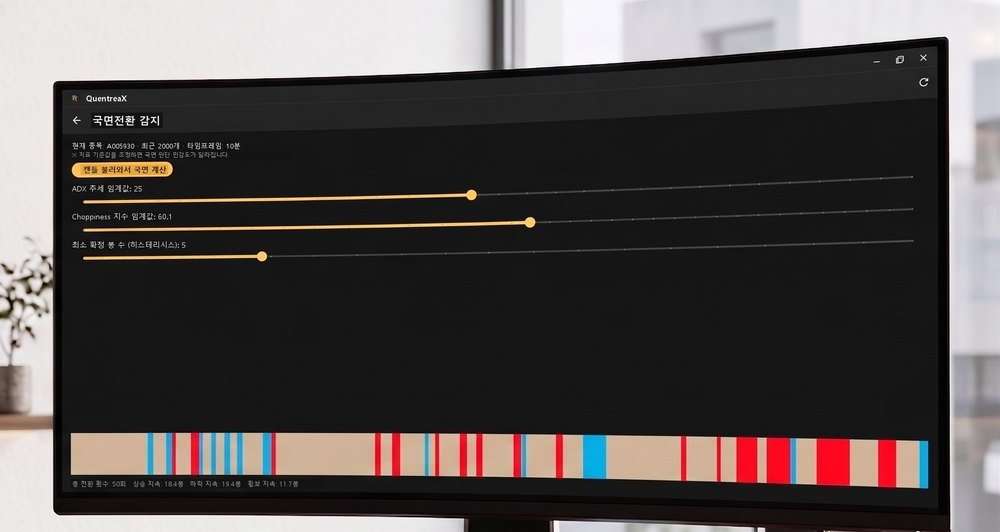
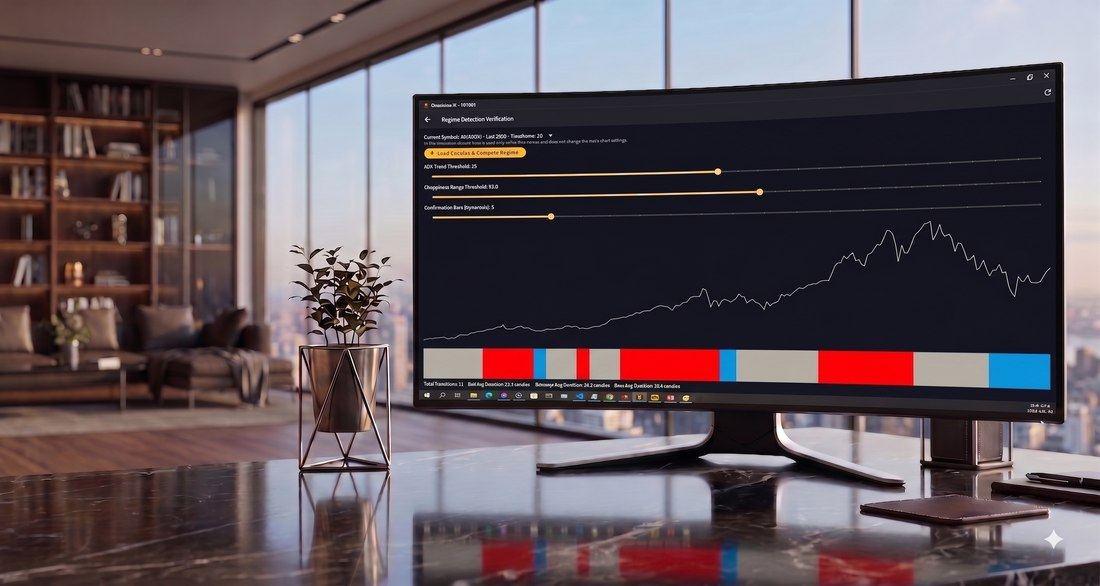
기능 페이지를 지그재그(이미지-텍스트 교차) 레이아웃으로 재구성
8개 기능 카드를 2열 그리드에서 좌우 교차 배치 행으로 변경하고,
사용자가 준비한 영어 UI 목업 이미지로 전체 교체(한글 깨짐 문제 해소).

diff --git a/features.html b/features.html
@@ -54,51 +54,74 @@
 
 <section class="section">
   <div class="container">
-    <div class="grid cols-2">
-      <div class="card num-card">
-        <img class="card-shot" src="assets/features/strategy-builder.jpg" alt="전략빌더 백테스팅 결과 화면" loading="lazy" />
+    <div class="feature-row num-card">
+      <div class="feature-media"><img src="assets/features/strategy-builder.jpg" alt="전략빌더 노드 편집 화면" loading="lazy" /></div>
+      <div class="feature-body">
         <span class="badge">전략빌더</span>
         <h3>노드 기반 전략빌더</h3>
         <p class="quote">"내가 생각한 매매전략을 직접 만들고 싶다면"</p>
         <p>퀀트라엑스의 전략빌더에 있는 AI에게 자연어로 요청하면 바로 노드로 연결하여 매매전략을 설계합니다. 조건 설정부터 진입·청산·손절·익절까지, 내가 생각한 로직을 직접 전략으로 만들 수 있습니다.</p>
-        <p class="card-note">※ 화면 속 수익률은 모의검증(백테스트) 결과이며, 실계좌 실적이 아닙니다.</p>
       </div>
-      <div class="card num-card">
-        <img class="card-shot" src="assets/features/trade-line.jpg" alt="차트 매매선 화면" loading="lazy" />
+    </div>
+
+    <div class="feature-row reverse num-card">
+      <div class="feature-media"><img src="assets/features/trade-line.jpg" alt="차트 매매선 화면" loading="lazy" /></div>
+      <div class="feature-body">
         <span class="badge">매매선</span>
         <h3>차트 매매선</h3>
         <p class="quote">"차트를 보면서 직관적으로 매매하고 싶다면"</p>
         <p>차트 위에 진입, 익절, 손절 가격을 직접 그어보세요. 복잡한 설정 없이 내가 그린 매매선을 기준으로 자동 실행할 수 있습니다.</p>
       </div>
-      <div class="card">
-        <img class="card-shot" src="assets/features/prediction-candle.jpg" alt="AI 예측봉 차트 화면" loading="lazy" />
+    </div>
+
+    <div class="feature-row">
+      <div class="feature-media"><img src="assets/features/prediction-candle.jpg" alt="AI 예측봉 차트 화면" loading="lazy" /></div>
+      <div class="feature-body">
         <span class="badge badge-accent">예측봉</span>
         <h3>AI 예측봉</h3>
         <p>다음 캔들의 흐름을 AI가 예측해 차트에 표시합니다. 5개짜리 통계 기반 예측은 5회 반복 후 다수결로 최종안을 뽑아 신뢰도를 높였고, 1개짜리 예측은 진행 중인 봉의 마감가와 다음 봉의 흐름을 함께 예측해 시장의 가능성을 분석합니다.</p>
       </div>
-      <div class="card">
+    </div>
+
+    <div class="feature-row reverse">
+      <div class="feature-media"><img src="assets/features/triple-verify.jpg" alt="AI 3중 검증 예측봉 매매 화면" loading="lazy" /></div>
+      <div class="feature-body">
         <span class="badge badge-accent">3중 검증</span>
         <h3>AI 3중 검증 예측봉 매매</h3>
         <p>재미나이·클로드·GPT 세 개의 AI가 각각 다음 캔들을 독립적으로 예측하고, 방향이 서로 일치할 때만 매매에 반영합니다. 하나의 AI에만 의존하지 않고 서로 다른 AI가 서로를 검증하는 구조입니다.</p>
       </div>
-      <div class="card">
-        <img class="card-shot" src="assets/features/ai-bot.jpg" alt="AI봇 실행 상태 화면" loading="lazy" />
+    </div>
+
+    <div class="feature-row">
+      <div class="feature-media"><img src="assets/features/ai-bot.jpg" alt="AI봇 편집 화면" loading="lazy" /></div>
+      <div class="feature-body">
         <span class="badge">AI봇</span>
         <h3>AI봇 자동매매</h3>
         <p>재미나이·클로드·GPT 중 원하는 엔진을 선택해 호가창과 시세를 분석시키고, 실시간으로 매매 판단을 실행합니다. 신호를 그대로 따를지, 반전시킬지, 시장 국면에 따라 자동으로 바꿀지도 설정할 수 있습니다.</p>
       </div>
-      <div class="card">
-        <img class="card-shot" src="assets/features/phase-detect.jpg" alt="국면전환 감지 설정 화면" loading="lazy" />
+    </div>
+
+    <div class="feature-row reverse">
+      <div class="feature-media"><img src="assets/features/phase-detect.jpg" alt="국면전환 감지 설정 화면" loading="lazy" /></div>
+      <div class="feature-body">
         <span class="badge">국면 판단</span>
         <h3>국면전환 자동매매</h3>
         <p>시장이 상승·하락·횡보 중 어느 국면인지 지표(추세강도·변동성)로 스스로 판단해, 국면에 맞는 전략으로 자동 전환합니다. 사람이 장을 보고 있지 않아도 국면이 바뀌면 매매 방식도 따라 바뀝니다.</p>
       </div>
-      <div class="card">
+    </div>
+
+    <div class="feature-row">
+      <div class="feature-media"><img src="assets/features/unattended.jpg" alt="무인 다중계좌 운영 화면" loading="lazy" /></div>
+      <div class="feature-body">
         <span class="badge">무인 운영</span>
         <h3>무인 다중계좌 운영</h3>
         <p>계좌 화면을 열어두지 않아도 여러 계좌의 전략·매매선·AI봇이 백그라운드에서 계속 동작합니다. 계좌별로 실행 중인 전략과 손익을 한 화면에서 모아볼 수 있습니다.</p>
       </div>
-      <div class="card feature-video-card" onclick="openCarousel()" role="button" tabindex="0">
+    </div>
+
+    <div class="feature-row reverse feature-video-card" onclick="openCarousel()" role="button" tabindex="0">
+      <div class="feature-media"><img src="assets/mobile/mobile-grid-1.jpg" alt="모바일 앱 화면" loading="lazy" /></div>
+      <div class="feature-body">
         <span class="badge">모바일</span>
         <h3>모바일 지원 <span class="play-badge">▶ 화면 보기</span></h3>
         <p>PC뿐 아니라 안드로이드 앱으로도 매매 현황 확인과 자동매매 운용이 가능합니다.</p>

diff --git a/css/site.css b/css/site.css
@@ -360,6 +360,70 @@ img {
   opacity: 0.75;
 }
 
+/* Feature zigzag rows (image on one side, text on the other, alternating) */
+.feature-row {
+  display: flex;
+  align-items: stretch;
+  gap: 0;
+  margin-bottom: 28px;
+  background: var(--bg-card);
+  border: 1px solid var(--border);
+  border-radius: var(--radius);
+  overflow: hidden;
+}
+
+.feature-row.reverse {
+  flex-direction: row-reverse;
+}
+
+.feature-row .feature-media {
+  flex: 1 1 46%;
+  min-width: 0;
+}
+
+.feature-row .feature-media img {
+  width: 100%;
+  height: 100%;
+  min-height: 280px;
+  object-fit: cover;
+  display: block;
+}
+
+.feature-row .feature-body {
+  flex: 1 1 54%;
+  padding: 36px;
+  display: flex;
+  flex-direction: column;
+  justify-content: center;
+}
+
+.feature-row .feature-body h3 {
+  margin: 0 0 8px;
+  font-size: 20px;
+}
+
+.feature-row .feature-body p {
+  color: var(--muted);
+  font-size: 14px;
+}
+
+.feature-row.feature-video-card {
+  cursor: pointer;
+}
+
+@media (max-width: 768px) {
+  .feature-row,
+  .feature-row.reverse {
+    flex-direction: column;
+  }
+  .feature-row .feature-media img {
+    min-height: 220px;
+  }
+  .feature-row .feature-body {
+    padding: 24px;
+  }
+}
+
 .card p {
   margin: 0;
   color: var(--muted);
